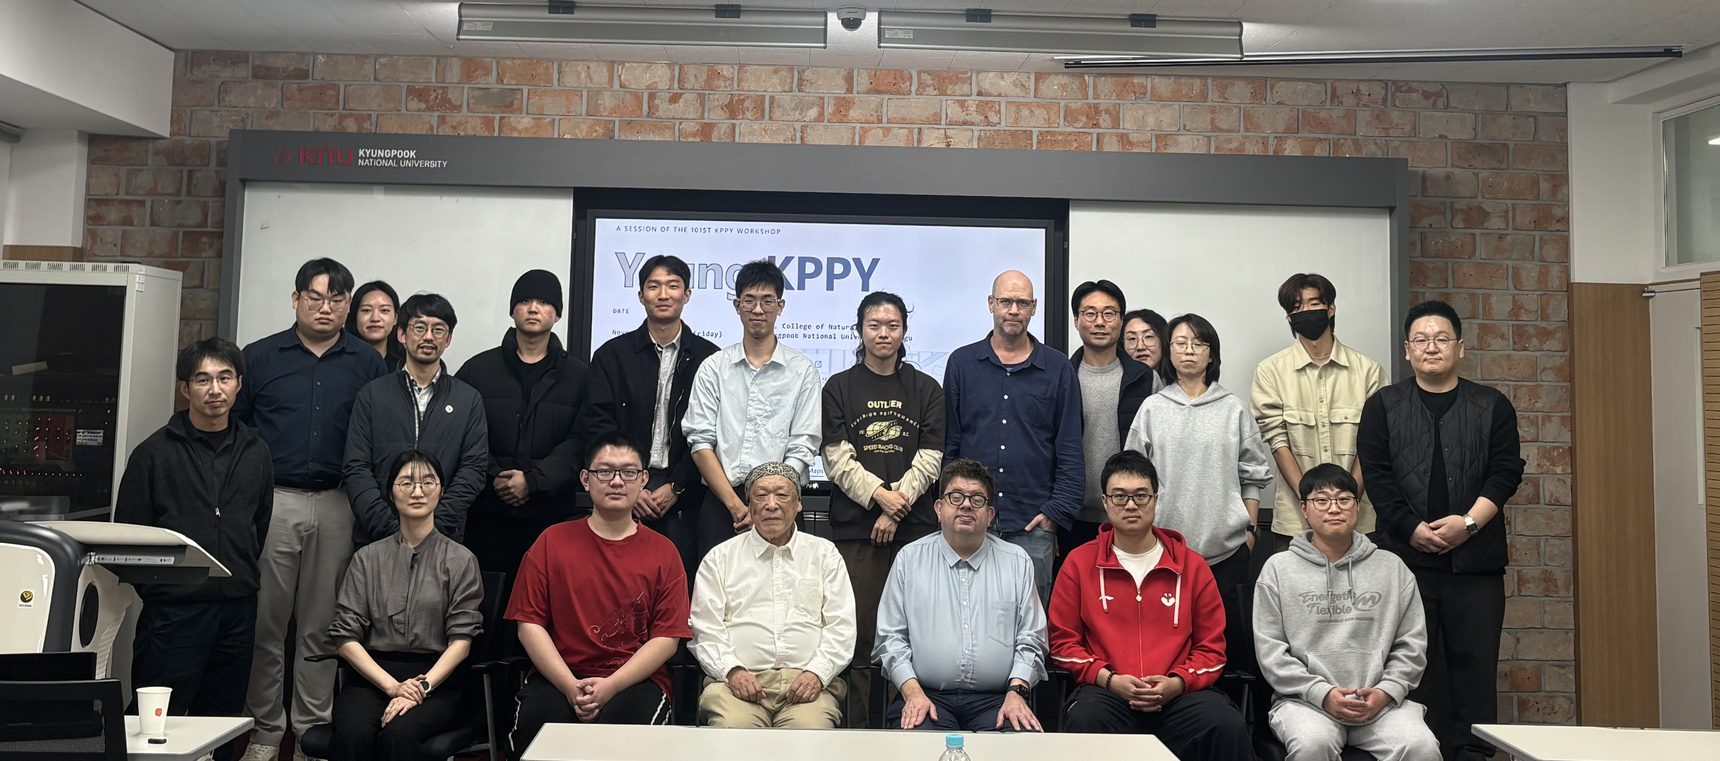
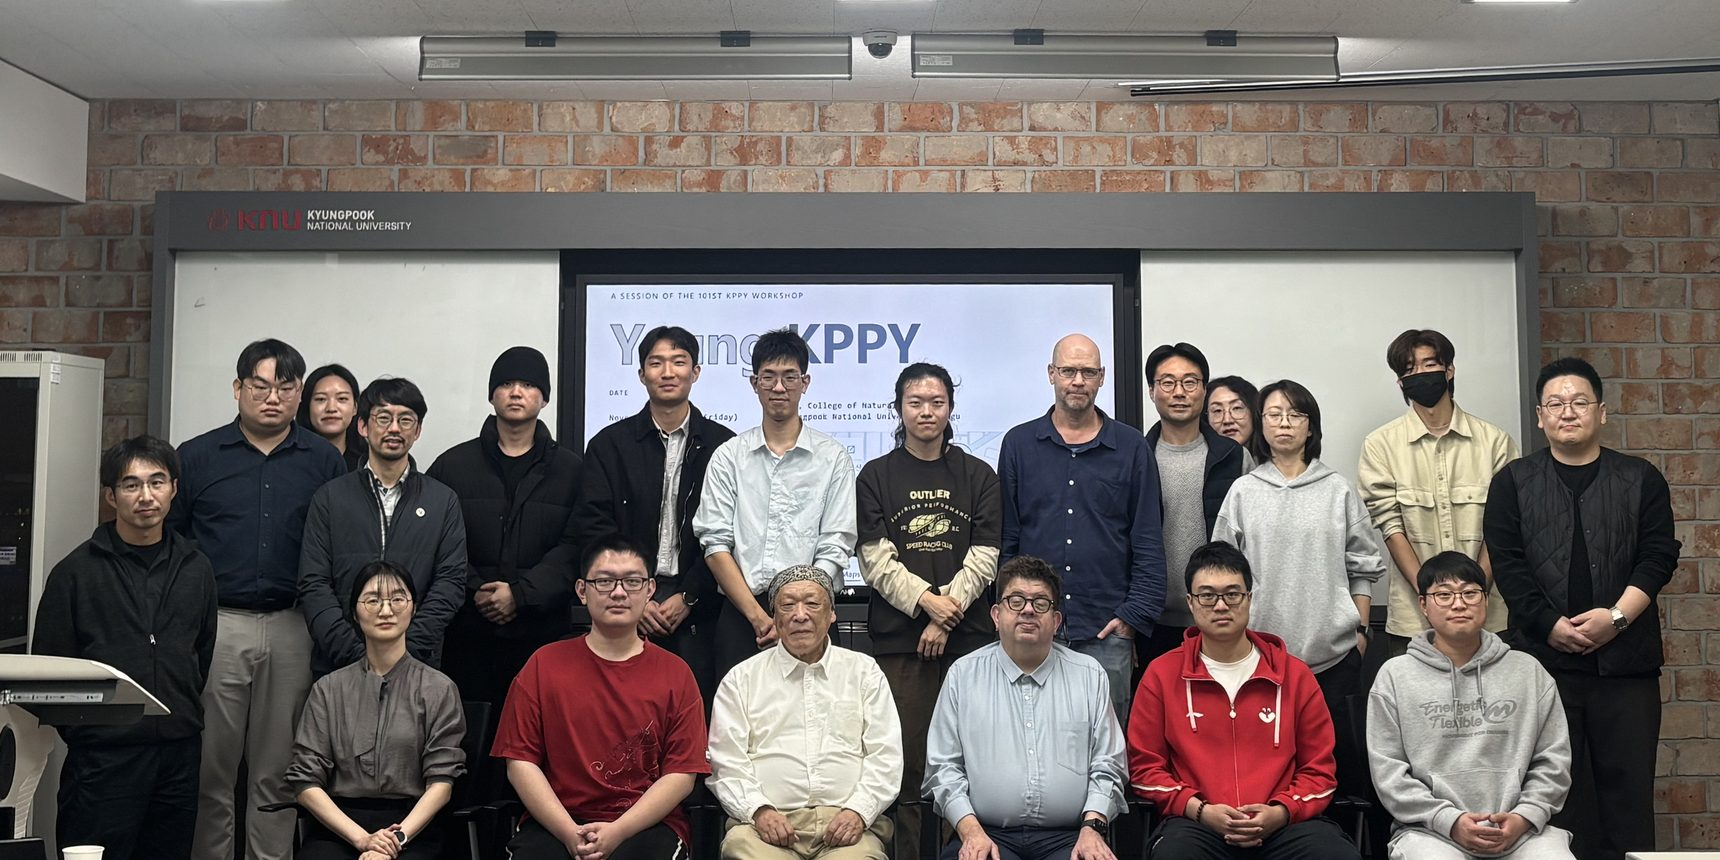
Straighten and crop group photos to the same size

diff --git a/index.html b/index.html
@@ -349,8 +349,8 @@
     <h2>About</h2>
     <p>Young KPPY is a session of the <a href="https://kppy.siggers.work/kppy-101/">101st KPPY Workshop</a>.<br>
     Everyone is welcome to attend.</p>
-    <img class="group-photo" style="margin-top:32px" src="group-photo.jpg" width="1720" height="1290" alt="Group photo of the Young KPPY participants in room B06, November 13, 2026">
-    <img class="group-photo" src="group-photo-2.jpg" width="1720" height="761" alt="Second group photo of the Young KPPY participants">
+    <img class="group-photo" style="margin-top:32px" src="group-photo.jpg" width="1720" height="860" alt="Group photo of the Young KPPY participants in room B06, November 13, 2026">
+    <img class="group-photo" src="group-photo-2.jpg" width="1720" height="860" alt="Second group photo of the Young KPPY participants">
   </div>
 </section>
 
